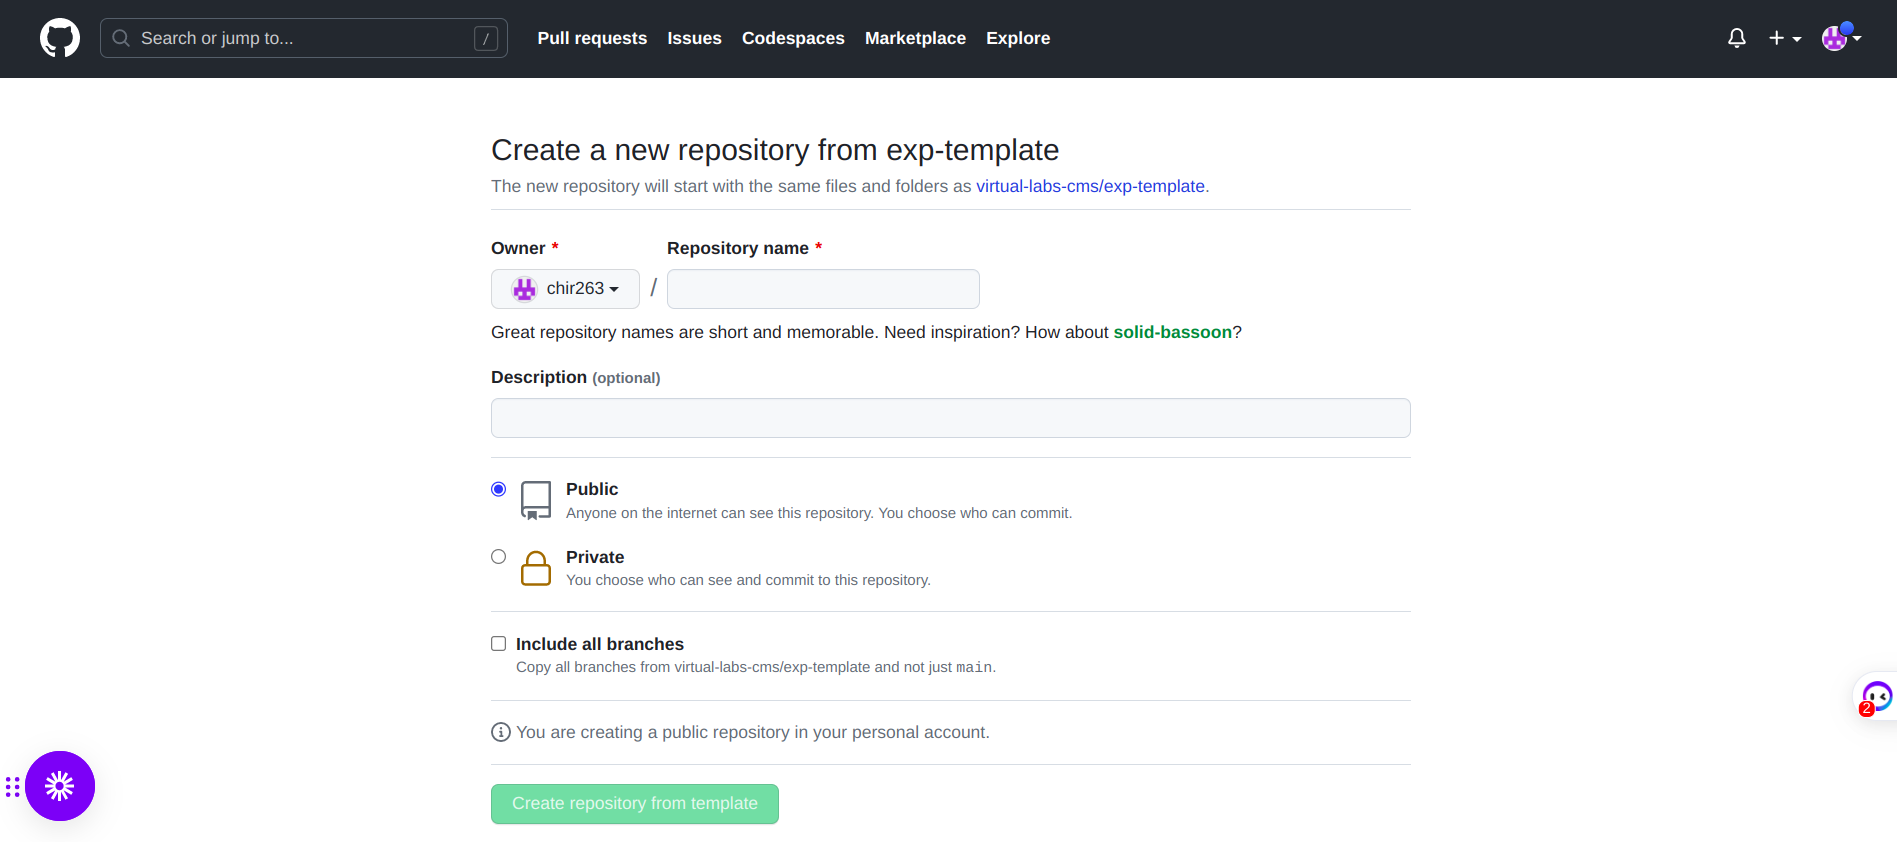
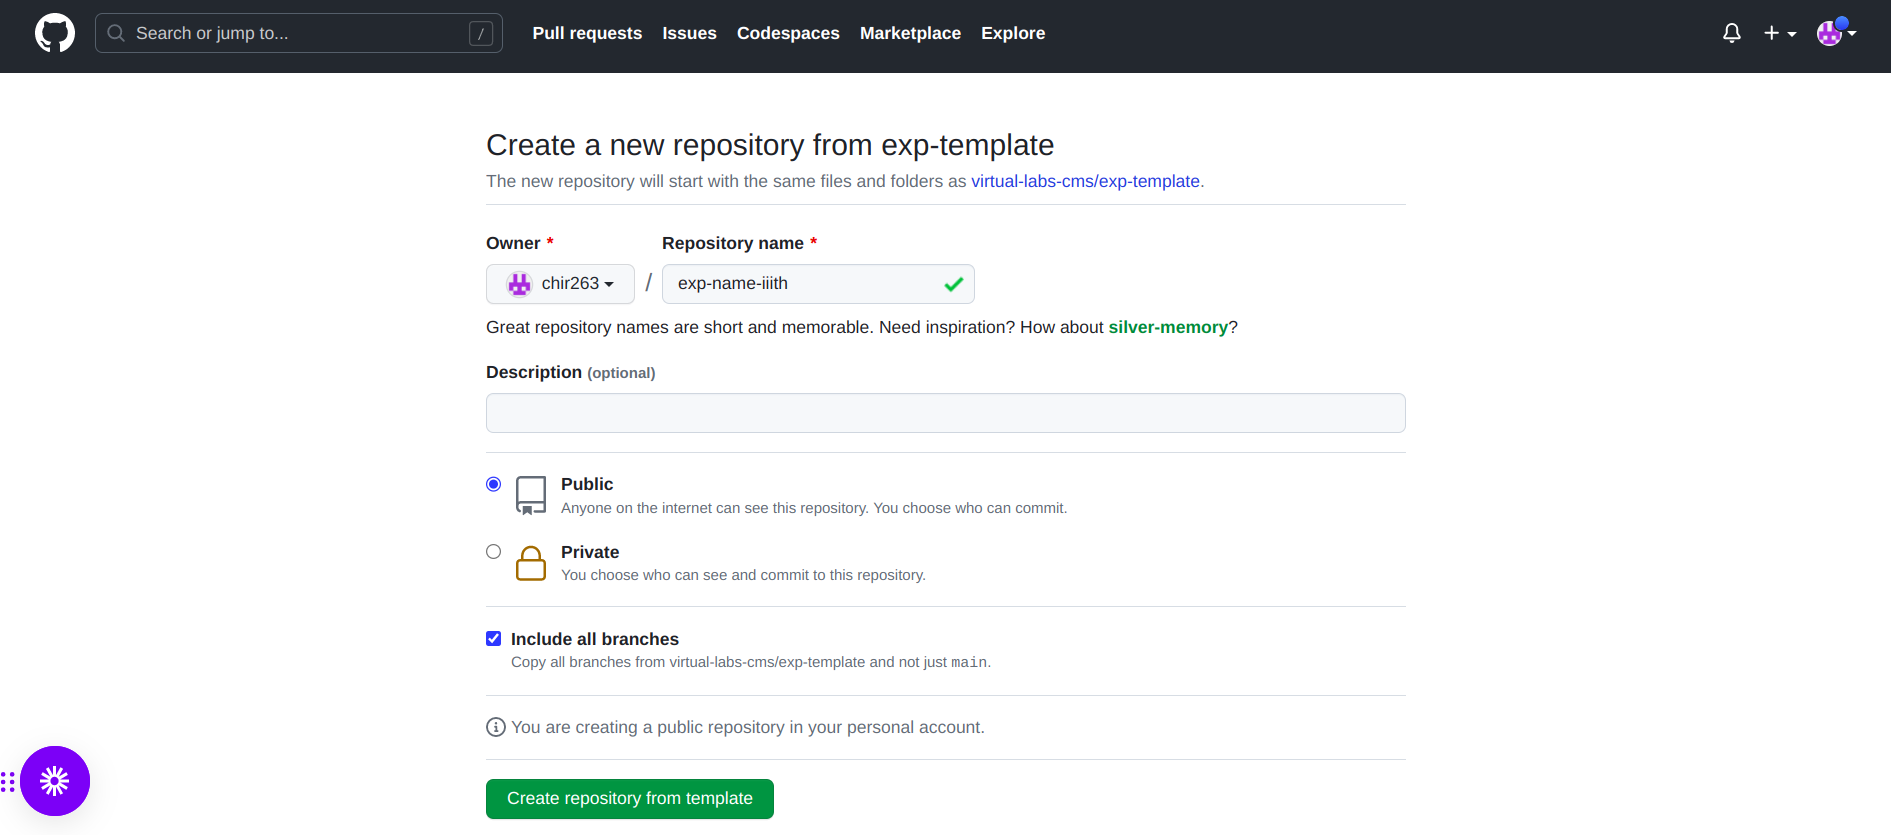
cms

diff --git a/index.html b/index.html
@@ -91,6 +91,30 @@
           </div>
         </div>
 
+
+        <div class="step">
+          <div class="step-description" style="padding-right: 10px;">
+            <h2 class="step-title">Creating Experiment in Virtual Labs</h2>
+            <p class="step-text">
+              Follow the instructions in the engineers forum repository to create an experiment in Virtual Labs:
+              <a
+                href="https://github.com/virtual-labs-cms/engineers-forum"
+                target="_blank"
+                >Engineers forum</a
+              >.
+              
+            </p>
+          </div>
+          
+          <div class="step-description">
+            <h2 class="step-title">Creating Experiment in your organization</h2>
+            <p class="step-text">
+              Create an experiment within your organization by following the steps outlined below.
+              
+            </p>
+          </div>
+        </div>
+
         <div class="step">
           <div class="step-number">2</div>
           <div class="step-description">
@@ -106,6 +130,7 @@
               <ul class="step-text">
                 <li>You will be redirected to the template's page, where you'll
               find a green button labeled <b>Use this template</b></li>
+              
               <li>
               Click on <b>Create a new repository</b>.
               </li>
@@ -128,12 +153,19 @@
             <p class="step-text">
               Fill up required details.
               <ul class="step-text">
-                <li>Repository name should be experiment name.</li>
+                <li>Repository name should be experiment name. </li>
+                  <li>Name format <b>exp-&lt;expName&gt;-&lt;devInstituteName&gt;</b> e.g. exp-geometry-optimization-molecules-iiith</li>
               <li>
                 Description about experiment. (Optional)
               </li>
               <li>
+              Must select <b>Include all branches</b>.
+              </li>
+              <li>
                 Click on <b>Create repository from template</b>
+              </li>
+              <li>
+               <a href="#secret">Steup Secret Token.</a>
               </li>
               </ul>
             </p>
@@ -150,6 +182,73 @@
           </div>
           <div class="step-image">
             <img src="./images/step-5.png" alt="Modifying Experiments" class="myImg"/>
+          </div>
+        </div>
+
+
+        <h1  id="secret" style="padding-top: 100px;" >Setup Secret Token</h1>
+
+        <div class="step">
+          <div class="step-number">1</div>
+          <div class="step-image">
+            <img src="./images/sec-1.png" alt="Creating a GitHub Account" class="myImg" />
+          </div>
+          <div class="step-description">
+            <h2 class="step-title">Setting up new secret</h2>
+            <p class="step-text">
+              <ul>
+                <li>Go to repository page <b>Setting</b> > <b>Secrets and variables</b> > <b>Actions</b>.</li>
+                <li>Click on <b>New repository secret</b>.</li>
+              </ul>
+            </p>
+          </div>
+        </div>
+
+        <div class="step">
+          <div class="step-number">2</div>
+          <div class="step-description">
+            <h2 class="step-title">Creating new Secret</h2>
+            <p class="step-text">
+              <ul>
+                <li>Enter <b>secret name</b> as `ORG_OWNER_GITHUB_TOKEN`.</li>
+                <li>Create <a href="https://docs.github.com/en/enterprise-server@3.4/authentication/keeping-your-account-and-data-secure/managing-your-personal-access-tokens">Personal Access Token</a>.</li>
+                <li>Paste that token into <b>Secret</b>.</li>
+                <li>Click on  <b>Add secret</b>.</li>
+              
+              </ul>
+            </p>
+          </div>
+          <div class="step-image">
+            <img src="./images/sec-2.png" alt="Using Experiment GitHub Template" class="myImg" />
+          </div>
+          
+        </div>
+
+        <div class="step">
+          <div class="step-number">3</div>
+          <div class="step-image">
+            <img src="./images/sec-3.png" alt="Completing Git Template and Creating Repository" class="myImg"/>
+          </div>
+          <div class="step-description">
+            <h2 class="step-title">Setting up permissions for workflow</h2>
+            <p class="step-text">
+              <ul>
+                <li>Go to repository page <b>Setting</b> > <b>Actions</b> > <b>General</b>.</li>
+              </ul>
+            </p>
+          </div>
+        </div>
+         <div class="step">
+          <div class="step-number">4</div>
+          
+          <div class="step-description">
+            <h2 class="step-title">Giving read and write permissions</h2>
+            <p class="step-text">
+              Select <b>Read and write permissions</b> under <b>Workflow permissions</b> heading.
+            </p>
+          </div>
+          <div class="step-image">
+            <img src="./images/sec-4.png" alt="Modifying Experiments" class="myImg"/>
           </div>
         </div>
       </section>
@@ -235,8 +334,10 @@
           <div class="step-description">
             <h2 class="step-title">Accessing Experiment Editing Page via Authentication</h2>
             <p class="step-text">
-              Fill up required details.
               <ul class="step-text">
+                <li>
+              Fill up required details.
+                </li>
                   <li>Submit the above form.</li>
                   <li>You will be redirected to an authentication page.</li>
                   <li>If you are not already logged in, look for the <b>Login with GitHub</b> option.</li>

diff --git a/css/style.css b/css/style.css
@@ -35,6 +35,11 @@ body {
     font-family: -apple-system, BlinkMacSystemFont, "Segoe UI", "Roboto",
         "Oxygen", "Ubuntu", "Cantarell", "Fira Sans", "Droid Sans",
         "Helvetica Neue", sans-serif;
+    scroll-behavior: smooth;
+}
+
+html {
+    scroll-behavior: smooth;
 }
 
 /* Navigation bar styles */
